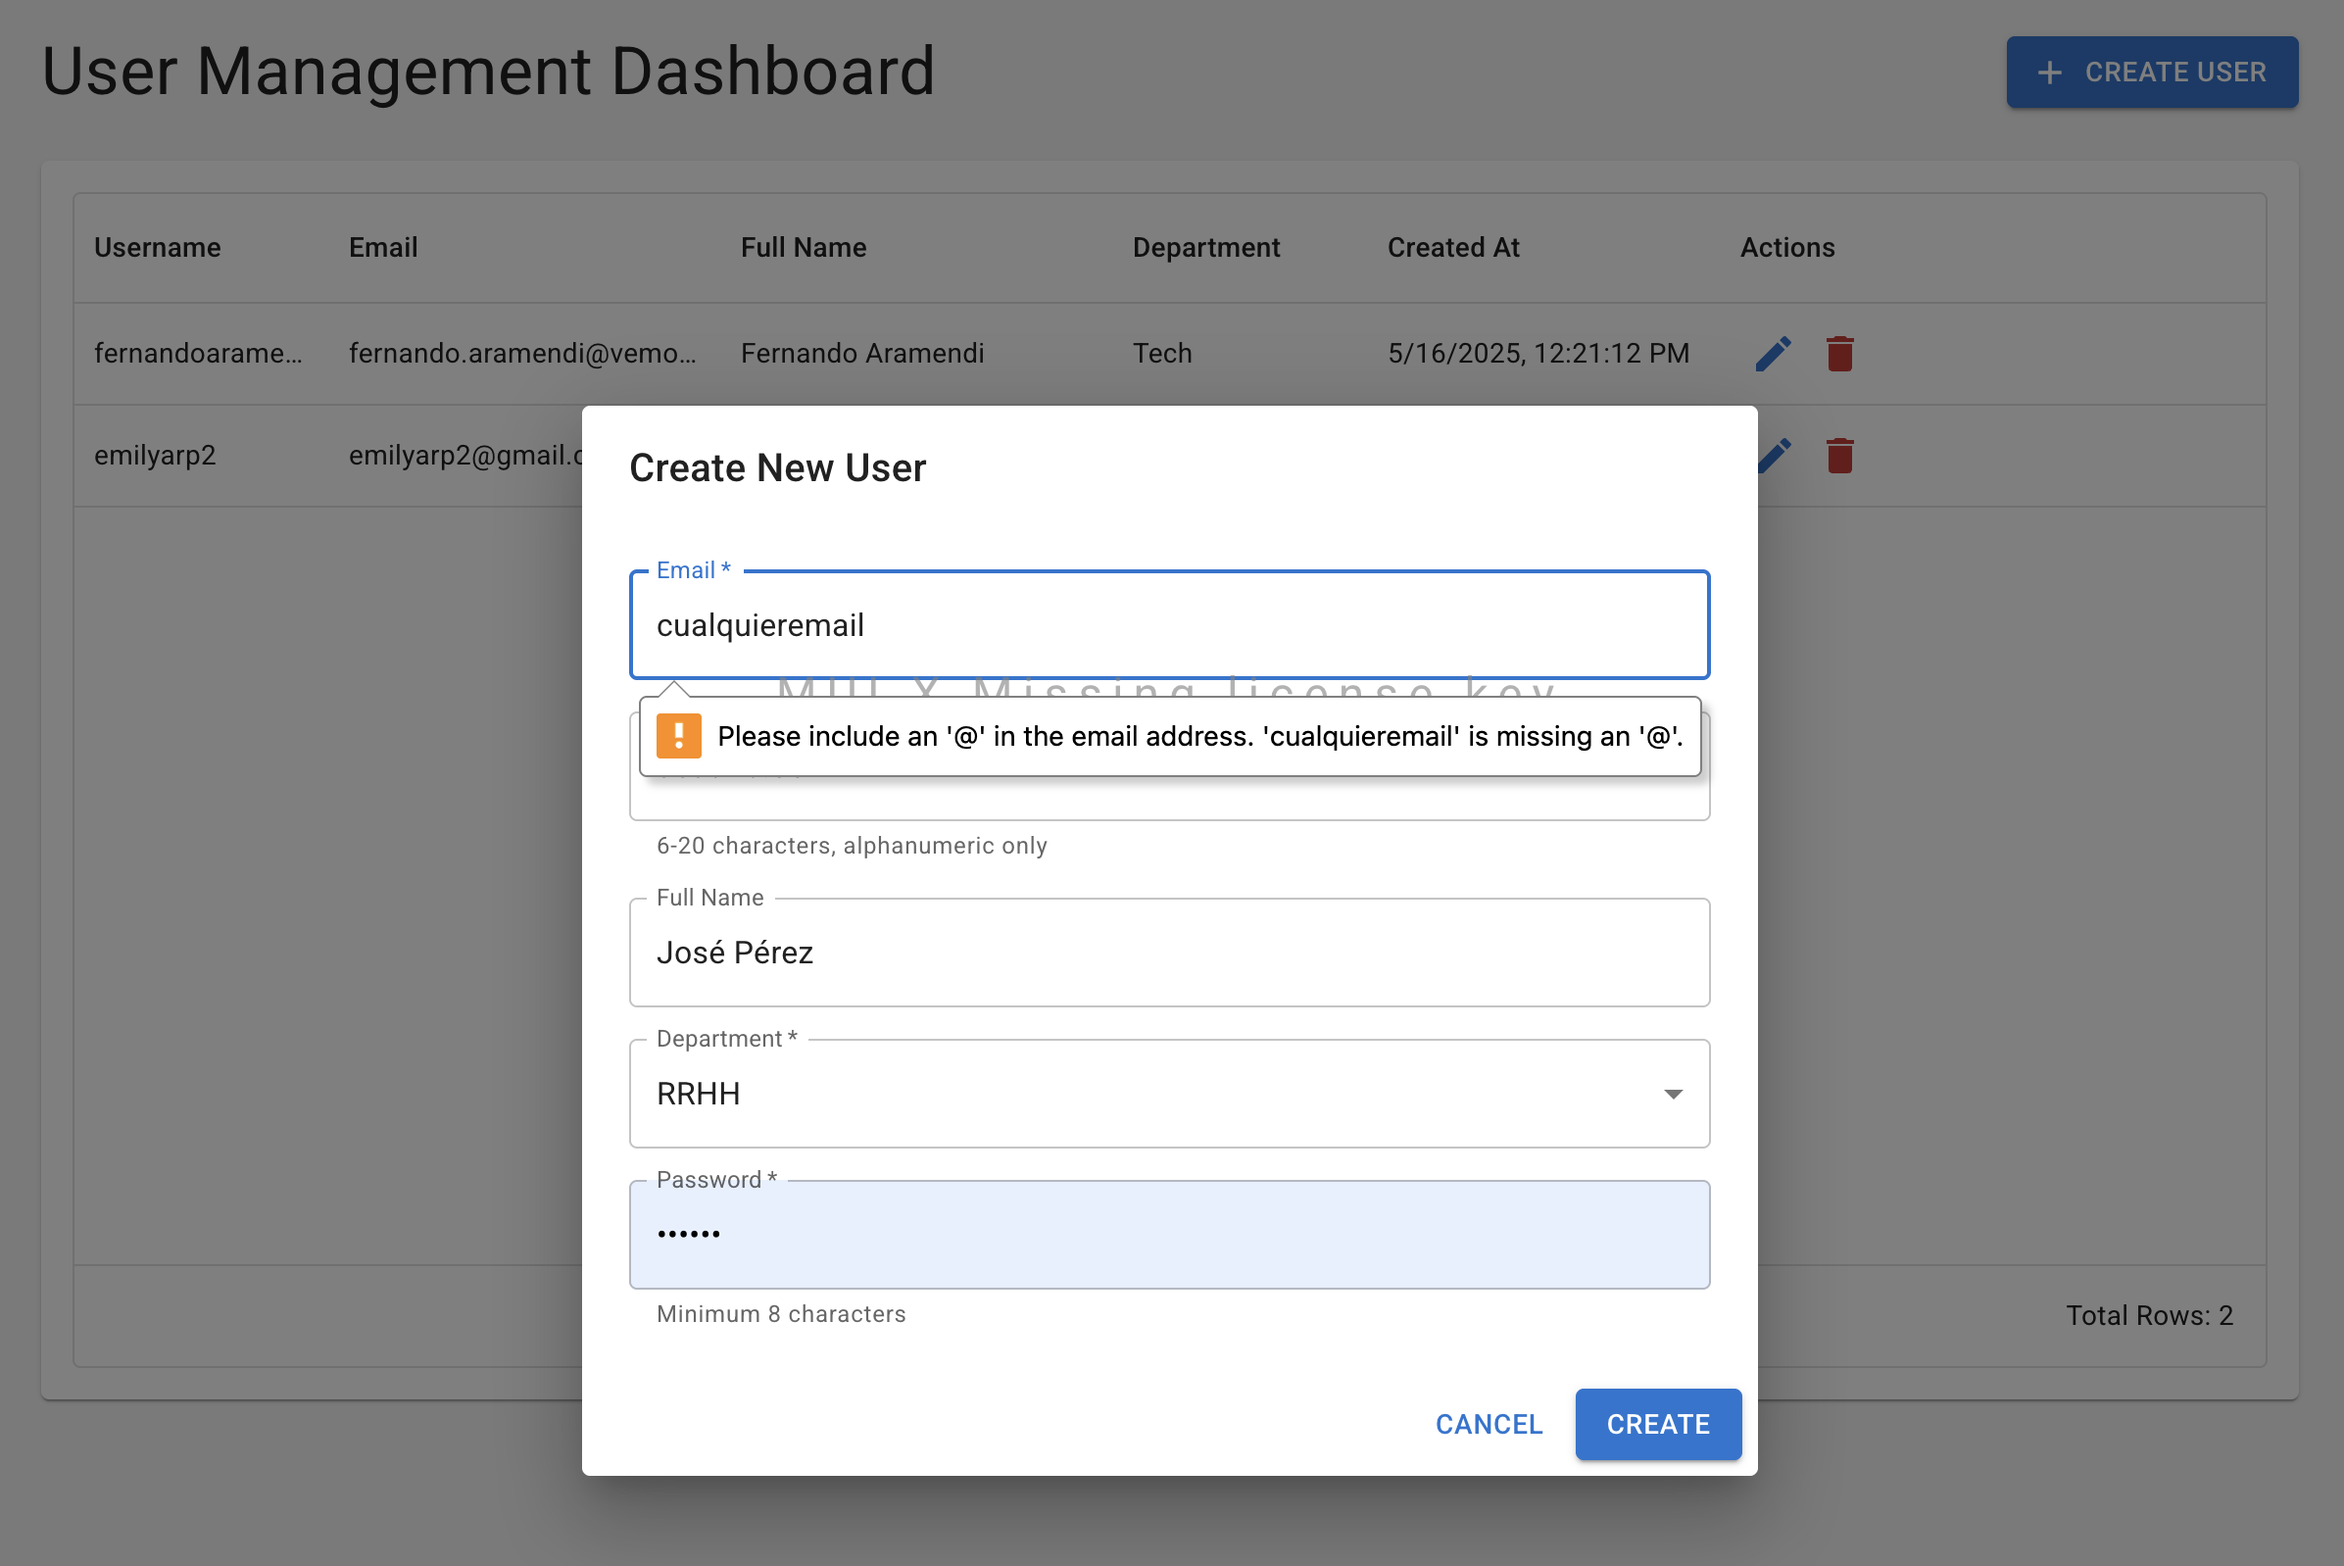
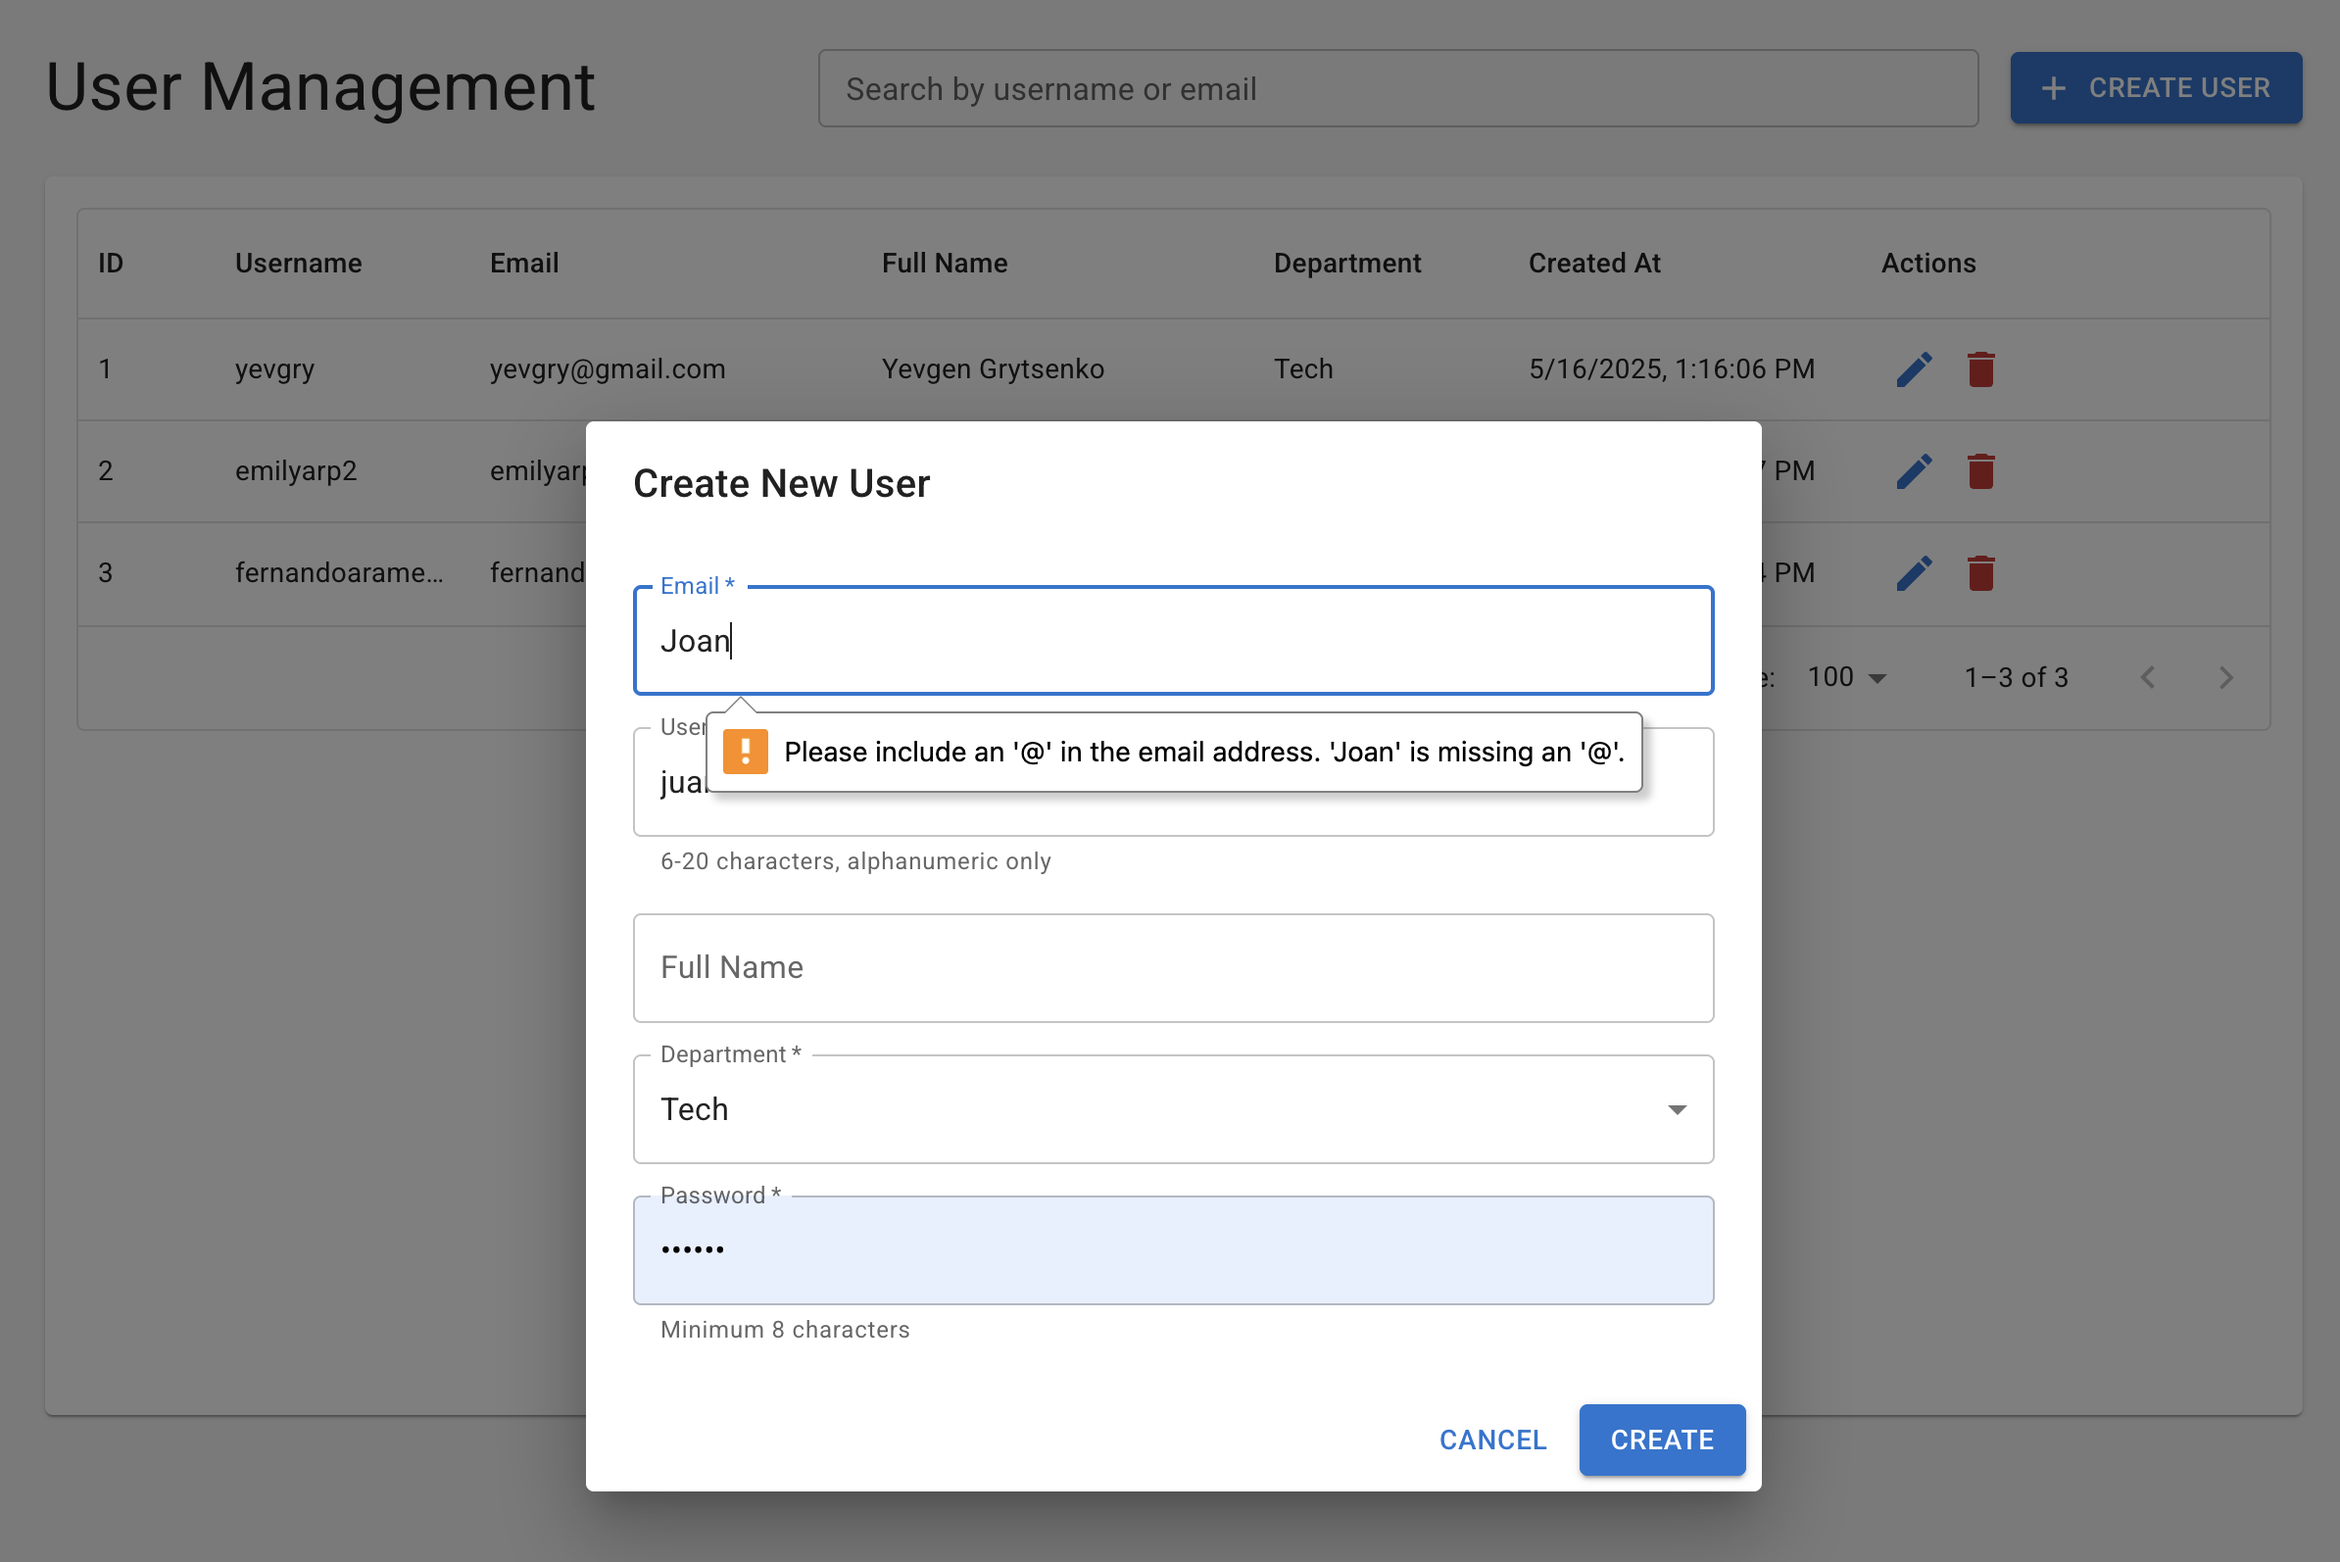
Added more docs. Changed DataTable to MUI version.

diff --git a/user_management_portal/frontend/src/pages/AdminPage.js b/user_management_portal/frontend/src/pages/AdminPage.js
@@ -14,8 +14,9 @@ import {
   DialogContent,
   DialogContentText,
   DialogActions,
+  TextField,
 } from '@mui/material';
-import { DataGridPro } from '@mui/x-data-grid-pro';
+import { DataGrid } from '@mui/x-data-grid';
 import {
   Add as AddIcon,
   Edit as EditIcon,
@@ -32,6 +33,7 @@ const AdminPage = () => {
   const [deleteDialogOpen, setDeleteDialogOpen] = useState(false);
   const [selectedUser, setSelectedUser] = useState(null);
   const [isEditing, setIsEditing] = useState(false);
+  const [search, setSearch] = useState('');
 
   useEffect(() => {
     fetchUsers();
@@ -101,20 +103,22 @@ const AdminPage = () => {
     setDeleteDialogOpen(true);
   };
 
+  // Filtrar usuarios por username o email
+  const filteredUsers = users.filter((user) => {
+    const searchLower = search.toLowerCase();
+    return (
+      user.username.toLowerCase().includes(searchLower) ||
+      user.email.toLowerCase().includes(searchLower)
+    );
+  });
+
   const columns = [
     { field: 'id', headerName: 'ID', width: 70 },
     { field: 'username', headerName: 'Username', width: 130 },
     { field: 'email', headerName: 'Email', width: 200 },
     { field: 'full_name', headerName: 'Full Name', width: 200 },
     { field: 'department', headerName: 'Department', width: 130 },
-    {
-      field: 'created_at',
-      headerName: 'Created At',
-      width: 180,
-      valueFormatter: (params) => {
-        return new Date(params.value).toLocaleString();
-      },
-    },
+    { field: 'created_at', headerName: 'Created At', width: 180, valueFormatter: (params) => new Date(params.value).toLocaleString() },
     {
       field: 'actions',
       headerName: 'Actions',
@@ -145,19 +149,6 @@ const AdminPage = () => {
     },
   ];
 
-  const initialState = {
-    aggregation: {
-      model: {
-        department: 'group',
-      },
-    },
-    columns: {
-      columnVisibilityModel: {
-        id: false,
-      },
-    },
-  };
-
   if (loading) {
     return (
       <Box display="flex" justifyContent="center" alignItems="center" minHeight="100vh">
@@ -168,22 +159,34 @@ const AdminPage = () => {
 
   return (
     <Container maxWidth="lg" sx={{ mt: 4, mb: 4 }}>
-      <Box display="flex" justifyContent="space-between" alignItems="center" mb={3}>
-        <Typography variant="h4" component="h1">
-          User Management Dashboard
+      <Box display="flex" flexDirection={{ xs: 'column', sm: 'row' }} justifyContent="space-between" alignItems={{ xs: 'stretch', sm: 'center' }} mb={3} gap={2}>
+        <Typography variant="h4" component="h1" sx={{ flex: 1 }}>
+          User Management
         </Typography>
-        <Button
-          variant="contained"
-          color="primary"
-          startIcon={<AddIcon />}
-          onClick={() => {
-            setIsEditing(false);
-            setSelectedUser(null);
-            setModalOpen(true);
-          }}
-        >
-          Create User
-        </Button>
+        <Box display="flex" flex={2} alignItems="center" gap={2}>
+          <TextField
+            type="search"
+            label="Search by username or email"
+            variant="outlined"
+            size="small"
+            value={search}
+            onChange={e => setSearch(e.target.value)}
+            sx={{ minWidth: 200, flex: 1 }}
+          />
+          <Button
+            variant="contained"
+            color="primary"
+            startIcon={<AddIcon />}
+            onClick={() => {
+              setIsEditing(false);
+              setSelectedUser(null);
+              setModalOpen(true);
+            }}
+            sx={{ whiteSpace: 'nowrap' }}
+          >
+            Create User
+          </Button>
+        </Box>
       </Box>
 
       {error && (
@@ -192,20 +195,15 @@ const AdminPage = () => {
         </Alert>
       )}
 
-      <Paper sx={{ p: 2, display: 'flex', flexDirection: 'column' }}>
+      <Paper sx={{ p: 2, mb: 2 }}>
         <Box sx={{ height: 600, width: '100%' }}>
-          <DataGridPro
-            rows={users}
+          <DataGrid
+            rows={filteredUsers}
             columns={columns}
-            initialState={initialState}
-            groupingColDef={{
-              headerName: 'Department',
-              width: 200,
-            }}
-            disableRowSelectionOnClick
-            experimentalFeatures={{
-              columnGrouping: true,
-            }}
+            pageSize={10}
+            rowsPerPageOptions={[5, 10, 25, 100]}
+            disableSelectionOnClick
+            autoHeight
           />
         </Box>
       </Paper>
@@ -242,4 +240,4 @@ const AdminPage = () => {
   );
 };
 
-export default AdminPage; 
+export default AdminPage;

diff --git a/user_management_portal/frontend/src/components/UserModal.js b/user_management_portal/frontend/src/components/UserModal.js
@@ -8,7 +8,6 @@ import {
   TextField,
   MenuItem,
   Box,
-  Alert,
 } from '@mui/material';
 
 const departments = ['Tech', 'RRHH', 'Sales'];

diff --git a/user_management_portal/CHANGELOG.md b/user_management_portal/CHANGELOG.md
@@ -56,6 +56,21 @@
 
 ---
 
+## [1.5.0] - Data Table Refactor & UX Improvements
+### Changed
+- Replaced the `DataGridPro` table (license required) with the free `DataGrid` version from MUI to avoid license warnings and simplify maintenance.
+- Attempted to implement a single table visually grouped by department (pivot table style) using custom rows, but found that the free `DataGrid` does not support group rows or custom headers between data.
+- Returned to a single table with all users and the "Department" column visible, allowing global search and pagination for all users.
+- Implemented a responsive search bar next to the "Create User" button that filters by username or email in real time.
+- Adjusted the layout so the search bar and button are responsive and user-friendly on both desktop and mobile.
+- Updated the project screenshots to reflect the new design and behavior of the data table.
+
+### Experience and decisions
+- Explored several alternatives for visual grouping (pivot/group by) in the table, but decided to prioritize user experience and compatibility with the free version of MUI.
+- Documented the limitation of the free MUI DataGrid regarding visual grouping, and left the door open for future improvements if a Pro license is acquired.
+
+---
+
 ## [Unreleased]
 ### Planned
 - Advanced search and filtering.

diff --git a/user_management_portal/README.md b/user_management_portal/README.md
@@ -90,3 +90,25 @@ npm start
 
 ## License
 This project is for educational and demonstration purposes only.
+
+## API Testing with Swagger (OpenAPI)
+
+You can easily test and explore the API endpoints using the built-in Swagger UI provided by FastAPI.
+
+### How to Access Swagger UI
+
+1. **Start the backend server** (if not already running):
+   ```bash
+   uvicorn backend.main:app --reload
+   ```
+2. **Open your browser and go to:**
+   
+   [http://localhost:8000/api/docs](http://localhost:8000/api/docs)
+
+### What You Can Do
+- View all available API endpoints, their methods, and required/requested data.
+- Try out requests directly from the browser (GET, POST, PUT, DELETE, etc.).
+- See example requests and responses for each endpoint.
+- Validate your payloads and see error messages in real time.
+
+This is a great way to quickly test the API without needing any external tools like Postman or curl.
